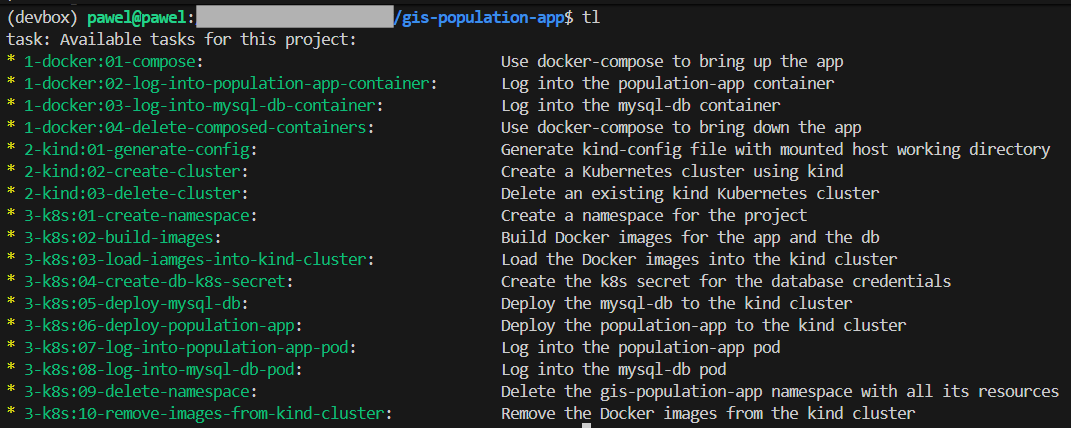
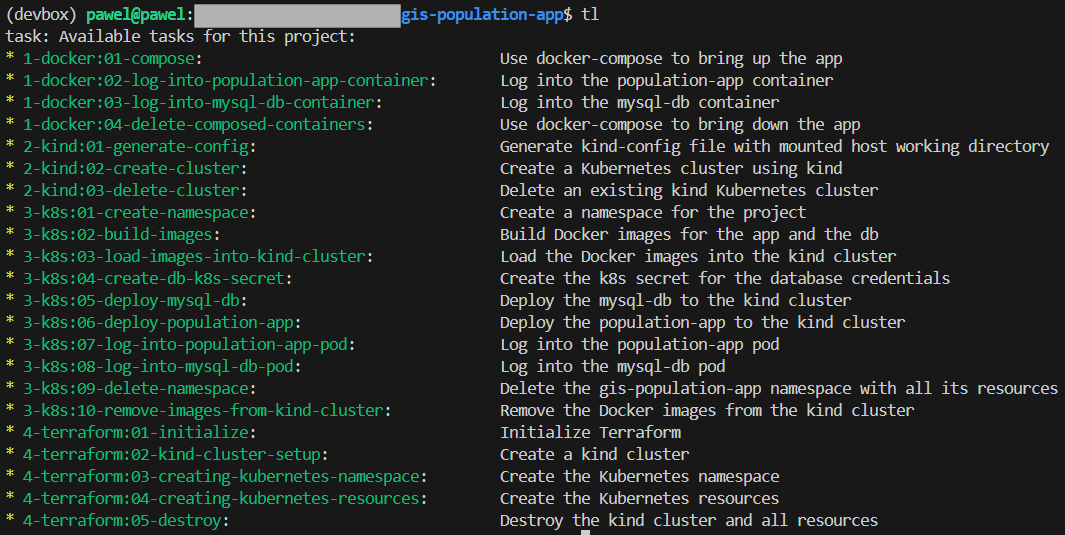
Terraform setup, README updates, and some minor refactoring.

Changed region(s): [[0.4648, 0.0911, 0.9915, 1.0], [0.0, 0.0, 0.5577, 1.0]]

diff --git a/app/population_get.py b/app/population_get.py
@@ -24,7 +24,7 @@ def get_country_population(session, country, year):
 
     # Make the API request
     try:
-        response = session.get(url, params=params, timeout=5)
+        response = session.get(url, params=params, timeout=30)
         response.raise_for_status()
         data = response.json()
 

diff --git a/README.md b/README.md
@@ -4,13 +4,14 @@
 
 ## Why This Project Matters
 
-This project is a hands-on showcase of my skills in **Python, MySQL, Docker, Kubernetes and data visualization** — and reflects my interest in **GIS** (Geographic Information Systems). It demonstrates how I can design, build, and containerize a&nbsp;complete application that integrates multiple technologies — bringing together **development**, **data engineering**, and **DevOps practices** with **geospatial analysis**.
+This project is a hands-on showcase of my skills in **Python, MySQL, Docker, Kubernetes, Terraform and data visualization** — and reflects my interest in **GIS** (Geographic Information Systems). It demonstrates how I can design, build, and containerize a&nbsp;complete application that integrates multiple technologies — bringing together **development**, **data engineering**, and **DevOps practices** with **geospatial analysis**.
 
 ### Skills Demonstrated
 - **Python**: building CLI tools, working with APIs, processing CSV and GeoJSON data.
 - **APIs & Data Integration**: fetching real-world data from the World Bank API and GeoJSON sources.   
 - **Databases (MySQL)**: schema creation, data insertion, and querying via Python integration.
-- **Docker & Kubernetes**: orchestrating multi-container environments (app + database).   
+- **Docker & Kubernetes**: orchestrating multi-container environments (app + database).
+- **Terraform**: implementing Infrastructure as Code (IaC) to automate environment provisioning and configuration.   
 - **Data Visualization & GIS**: creating trend graphs with `matplotlib`, interactive maps with `folium` and geocoding with `geopy`.
 - **Development & Automation**: creating a local development cluster using `kind` (Kubernetes-in-Docker), `devbox` (isolated dev environment) and `task` (task automation).
 
@@ -18,7 +19,7 @@ This project is a hands-on showcase of my skills in **Python, MySQL, Docker, Kub
 
 ## Introduction
 
-This repository contains a simple GIS CLI Python application that works with continents, countries, and their population data. It integrates with a MySQL database to store the data, and can be easily run using Docker containers (via `docker-compose` or Kubernetes).
+This repository contains a simple GIS CLI Python application that works with continents, countries, and their population data. It integrates with a MySQL database to store the data, and can be easily run using Docker containers — whether through `docker-compose`, Kubernetes, or Terraform.
 
 ### Main Features
 - Fetching population data for selected countries and years via the World Bank API [[1]](#references),
@@ -49,7 +50,7 @@ or follow the [Jetify Documentation](https://www.jetify.com/docs/devbox/installi
 
 Devbox allows you to create an isolated development environment (“box”) within your Linux distro and initialize a dedicated shell to work with specific tools, without affecting the rest of your Ubuntu system. It works similarly to Python’s .venv.
 
-In the main directory, the `devbox.json` file defines all dependencies to be installed — for example, `kubectl` (to manage Kubernetes), `kind` (to create a local Kubernetes cluster), or `go-task` (to automate command-based tasks).
+In the main directory, the `devbox.json` file defines all dependencies to be installed — for example, `kubectl` (to manage Kubernetes), `kind` (to create a local Kubernetes cluster), `go-task` (to automate command-based tasks), or `terraform` (to define infrastructure as code).
 
 Additionally, initialization hooks enable `kubectl` command completion and create useful aliases such as `k` for `kubectl` and `tl` for `task --list-all`.
 
@@ -126,7 +127,7 @@ For that purpose, a Kind (Kubernetes in Docker) cluster will be created, and the
 
 #### 3. Load the images into the Kind cluster
 
-`task 3-k8s:03-load-iamges-into-kind-cluster`
+`task 3-k8s:03-load-images-into-kind-cluster`
 
 #### 4. Create a Kubernetes secret for database credentials
 
@@ -155,6 +156,53 @@ For that purpose, a Kind (Kubernetes in Docker) cluster will be created, and the
 #### 10. Remove the Docker images from the Kind cluster
 
 `task 3-k8s:10-remove-images-from-kind-cluster`
+
+---
+
+## Terraform Approach
+
+You can also run the application using Terraform together with Kubernetes.  
+For this purpose, a local Kind cluster will be created using the Terraform Kind provisioner, and the application resources will be deployed to it using `.tf` templates.
+
+#### 1. Initialize Terraform
+
+`task 4-terraform:01-initialize`
+
+#### 2. Create a local Kind cluster to work with Kubernetes
+
+`task 4-terraform:02-kind-cluster-setup`
+
+#### 3. Create a Kubernetes namespace within your Kind cluster and set it as default
+
+`task 4-terraform:03-creating-kubernetes-namespace`
+
+#### 4. Build Docker images (if they haven't been built yet)
+
+`task 3-k8s:02-build-images`
+
+#### 5. Load the images into the Kind cluster
+
+`task 3-k8s:03-load-images-into-kind-cluster`
+
+#### 6. Create a Kubernetes secret for database credentials
+
+`task 3-k8s:04-create-db-k8s-secret`
+
+#### 7. Create other Kubernetes resources
+
+`task 4-terraform:04-creating-kubernetes-resources`
+
+#### 8. Log into the `population-app` pod
+
+`task 3-k8s:07-log-into-population-app-pod`
+
+#### 9. Log into the `mysql-db` pod
+
+`task 3-k8s:08-log-into-mysql-db-pod`
+
+#### 10. Destroy all resources created by Terraform
+
+`task 4-terraform:05-destroy`
 
 ---
 
@@ -264,4 +312,8 @@ Example:
 
 [7] ISO 3166-1 alpha-2 codes - Wikipedia: https://en.wikipedia.org/wiki/ISO_3166-1_alpha-2
 
-[8] Kubernetes: Beginner to Pro: https://courses.devopsdirective.com/kubernetes-beginner-to-pro/lessons/00-introduction/01-main
+[8] Docker: Beigneer to Pro: https://courses.devopsdirective.com/docker-beginner-to-pro/lessons/00-introduction/01-main
+
+[9] Kubernetes: Beginner to Pro: https://courses.devopsdirective.com/kubernetes-beginner-to-pro/lessons/00-introduction/01-main
+
+[10] Terraform: Beginner to Pro: https://courses.devopsdirective.com/terraform-beginner-to-pro/lessons/00-introduction/01-main
